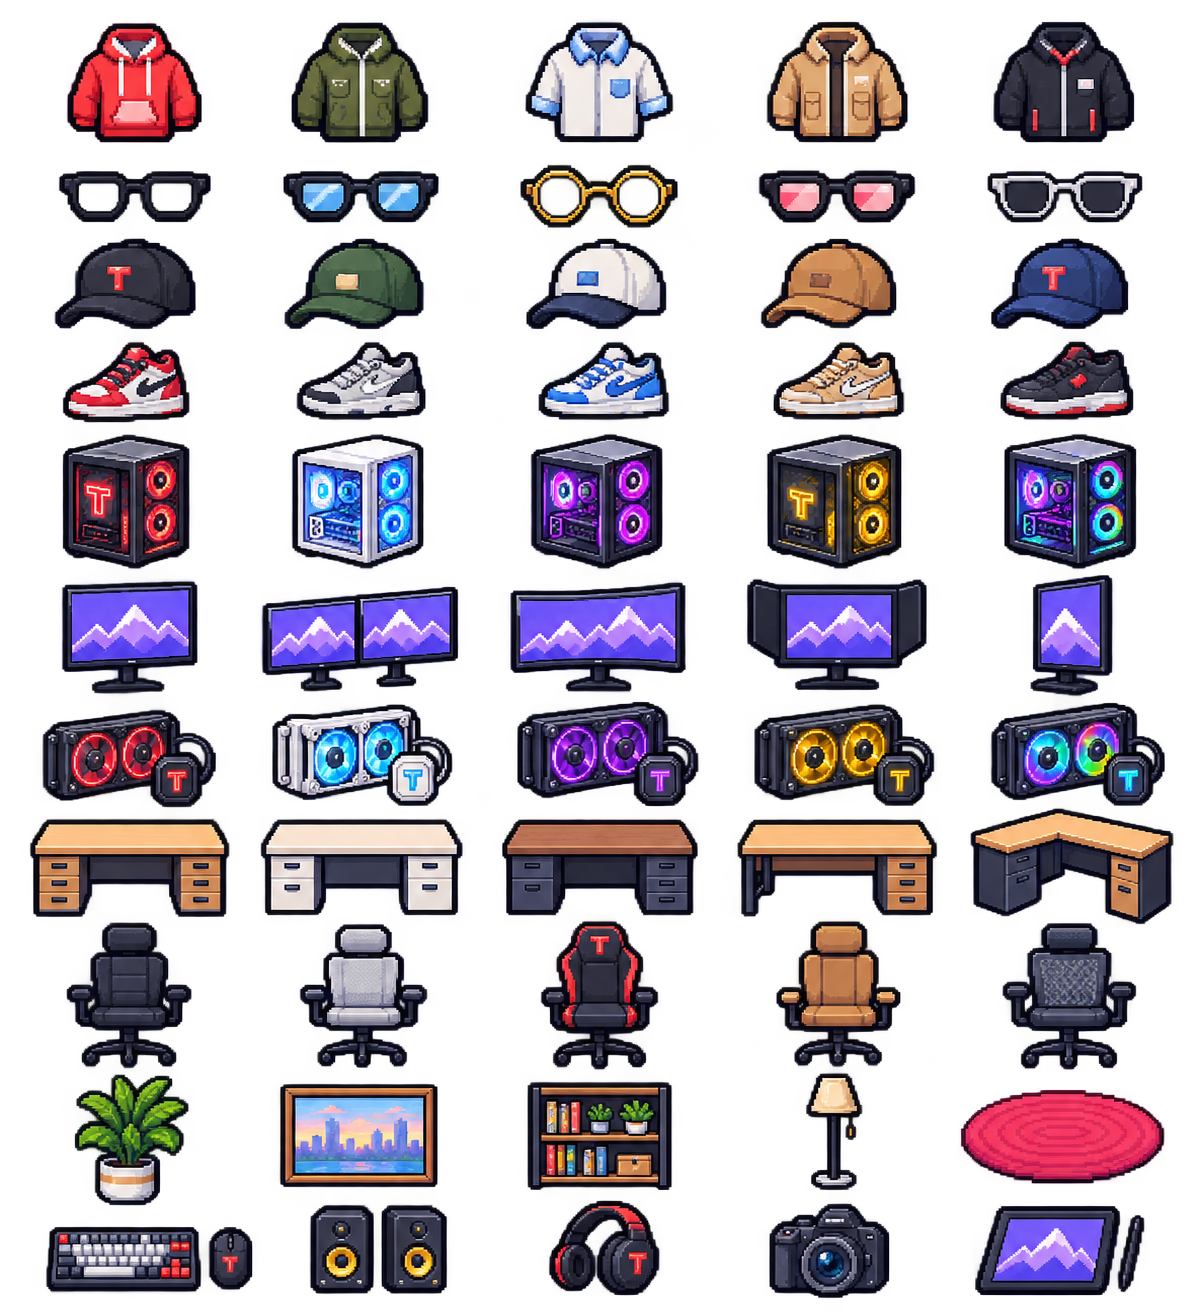
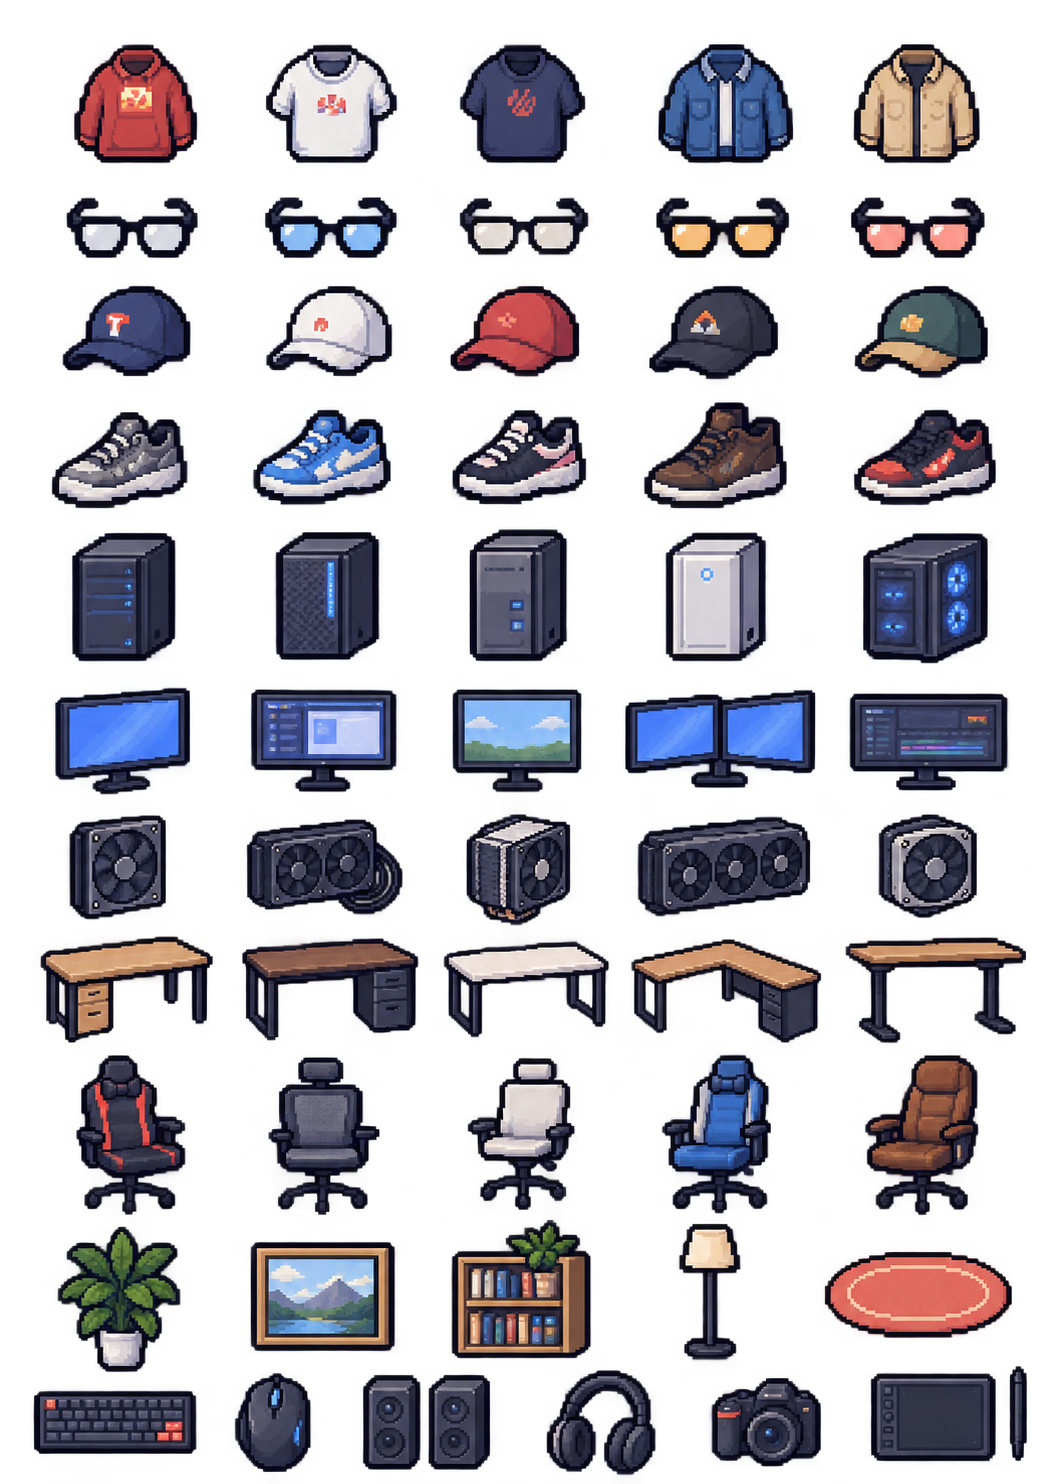
Regenerate muted item art and preserve sprite proportions across UI

diff --git a/src/item-art.js b/src/item-art.js
@@ -1,3 +1,4 @@
+import {drawSprite} from './sprite-fit.js';
 import {rarities} from '../shared/catalog.js';
 const cache=new Map();
 const atlases={};for(const [kind,columns,rows] of [['pet',5,4],['vehicle',4,3],['items',5,11],['office',4,3]]){const image=new Image();image.onload=()=>{if(kind==='pet'||kind==='vehicle')prepareAtlas(atlases[kind]);cache.clear();};image.src='/art/'+kind+'-atlas.png';atlases[kind]={image,columns,rows};}
@@ -12,7 +13,7 @@ export function drawItem(ctx,item,x=0,y=0,size=64,time=0,aura=true){
  const box=(x,y,w,h,col)=>{r(x-2,y-2,w+4,h+4,ink);r(x,y,w,h,col);r(x,y,w,2,light);};
  if(t===3&&aura){const p=Math.floor(time/250)%4;for(let i=0;i<8;i++){const xx=5+(i*17+v*3)%53,yy=4+(i*23)%52;if((i+p)%3!==0){r(xx,yy,3,3,'#efa9fa');r(xx-2,yy+1,7,1,'#c582eb');}}}
  const itemRows=['shirt','glasses','hat','shoes','case','monitor','cooling','desk','chair','decor','accessory'];const row=itemRows.indexOf(item.category);const atlas=atlases[row>=0?'items':item.category];
- if(atlas?.image.complete&&atlas.image.naturalWidth){const {image,columns,rows}=atlas,w=image.naturalWidth/columns,h=image.naturalHeight/rows,index=row>=0?row*5+v:item.variant;if(atlas.frames?.[index])ctx.drawImage(atlas.frames[index],2,1,60,58);else {const cuts=[0,.118,.18,.259,.328,.438,.537,.619,.704,.819,.913,1],sy=row>=0?cuts[row]*image.naturalHeight:Math.floor(index/columns)*h,sh=row>=0?(cuts[row+1]-cuts[row])*image.naturalHeight:h;ctx.drawImage(image,index%columns*w,sy,w,sh,2,1,60,58);}}else switch(item.category){
+ if(atlas?.image.complete&&atlas.image.naturalWidth){const {image,columns,rows}=atlas,w=image.naturalWidth/columns,h=image.naturalHeight/rows,index=row>=0?row*5+v:item.variant;if(atlas.frames?.[index])drawSprite(ctx,atlas.frames[index],0,0,atlas.frames[index].width,atlas.frames[index].height,2,1,60,56);else {const cuts=[0,180,275,400,525,680,805,930,1055,1220,1375,1484].map(y=>y/1484),sy=row>=0?cuts[row]*image.naturalHeight:Math.floor(index/columns)*h,sh=row>=0?(cuts[row+1]-cuts[row])*image.naturalHeight:h;const xs=row===10?[0,320,505,675,835,1060]:[0,232,430,630,830,1060];drawSprite(ctx,image,row>=0?xs[v]*image.naturalWidth/1060:index%columns*w,sy,row>=0?(xs[v+1]-xs[v])*image.naturalWidth/1060:w,sh,2,1,60,56);}}else switch(item.category){
  case 'shirt':{box(19,16,26,33,c);r(10,18,9,17,c);r(45,18,9,17,c);r(12,32,6,4,light);r(47,32,6,4,light);r(26,14,12,7,ink);r(29,17,6,4,light);if(v%2)r(30,22,3,27,metal);else r(21,32,22,3,light);r(36,27,5,6,ink);if(v>2){r(18,12,7,9,c);r(39,12,7,9,c);}break;}
  case 'glasses':{const h=8+v*2;box(9,25,18,h,t>1?c:metal);box(37,25,18,h,t>1?c:metal);r(27,29,10,3,ink);r(3,24,7,4,c);r(54,24,7,4,c);r(12,28,12,h-4,'#273c58');r(40,28,12,h-4,'#273c58');r(13,29,7,2,'#b7d8e1');r(41,29,7,2,'#b7d8e1');break;}
  case 'hat':{box(17,18-v,31,24,c);r(12,40-v,44,6,ink);r(v%2?7:16,39-v,v%2?48:35,4,c);r(29,25,8,9,t>1?'#ed9acc':light);r(23,18-v,3,20,metal);if(v===4){r(27,8,10,8,light);}break;}
@@ -30,20 +31,7 @@ export function drawItem(ctx,item,x=0,y=0,size=64,time=0,aura=true){
  else{const cat=item.kind==='cat';oval(16,29,36,25,ink);oval(18,30,32,22,fur);oval(21,35,24,17,cream);oval(11,14,37,30,ink);oval(13,16,33,26,fur);for(const xx of [14,36]){r(xx,cat?6:9,8,15,ink);r(xx+2,cat?9:12,4,11,fur);r(xx+3,14,2,6,'#d79c9b');}if(n===0||n===11){oval(8,19,9,23,ink);oval(9,20,7,20,fur);oval(43,19,9,23,fur);}oval(19,28,24,14,cream);if([3,10,13].includes(n))oval(14,18,12,15,'#576076');r(20,26,3,5,ink);r(37,26,3,5,ink);r(20,26,1,2,cream);r(37,26,1,2,cream);r(28,33,5,3,ink);r(30,36,1,3,ink);r(26,39,4,1,'#c68383');r(32,39,4,1,'#c68383');oval(17,48+bob,12,8,ink);oval(19,48+bob,9,6,cream);oval(36,48-bob,12,8,ink);oval(37,48-bob,9,6,cream);oval(48,29-bob*2,10,16,fur);if(n===11){r(32,41,5,4,'#d54c76');r(39,41,5,4,'#d54c76');}if([4,8,17].includes(n)){for(let i=0;i<3;i++)r(25+i*4,17,2,6,'#a77748');}if(n===18){for(let i=0;i<7;i++)r(16+(i*11)%28,19+(i*7)%27,2,2,['#60e0ed','#ef91f1'][i%2]);}}
  break;}
  }
- if(t===1){ // Studio trim and hardware: visibly different from the Common base.
-  const trim='#b5d2aa';
-  if(item.category==='shirt'){r(21,23,6,8,trim);r(37,34,6,3,trim);}
-  else if(item.category==='hat'){r(18,34-v,29,3,trim);r(40,22,4,4,light);}
-  else if(item.category==='glasses'){r(10,23,16,2,trim);r(38,23,16,2,trim);}
-  else if(item.category==='shoes'){r(9,39,15,3,trim);r(35,43,15,3,trim);}
-  else if(item.category==='case'){r(40,14,4,3,trim);r(40,20,4,3,trim);r(18,50,28,2,trim);}
-  else if(item.category==='monitor'){r(8,43,48,2,trim);r(52,39,3,3,trim);}
-  else if(item.category==='desk'){r(9,36,45,3,trim);r(43,44,8,2,trim);}
-  else if(item.category==='chair'){r(23,14,18,3,trim);r(18,40,28,2,trim);}
-  else if(item.category==='vehicle'){r(29,7,3,10,trim);r(25,45,14,2,trim);}
-  else if(item.category==='pet'){r(15,37,20,3,trim);r(23,40,3,4,'#dec48a');}
-  else {r(24,43,17,2,trim);r(26,46,13,2,trim);}
- }
+ if(t===1){r(22,59,20,2,'#8aad85');}
  if(t>=2){const col=t===2?'#83c8ef':'#f4a6df';r(8,59,48,2,col);if(t===3)r(10,56,4+(Math.floor(time/200)%5)*8,2,col);}
  ctx.restore();
 }
@@ -61,4 +49,4 @@ export function drawWorkstation(ctx,user,items,x,y,w=96,aura=true,time=0){
  ctx.restore();
 }
 
-export function drawOfficeProp(ctx,index,x,y,width,height=width){const a=atlases.office;if(!a.image.complete||!a.image.naturalWidth)return false;const w=a.image.naturalWidth/a.columns,h=a.image.naturalHeight/a.rows;ctx.imageSmoothingEnabled=false;const xs=[0,.31,.56,.755,1],ys=[0,.35,.69,1],col=index%4,row=Math.floor(index/4);ctx.drawImage(a.image,xs[col]*a.image.naturalWidth,ys[row]*a.image.naturalHeight,(xs[col+1]-xs[col])*a.image.naturalWidth,(ys[row+1]-ys[row])*a.image.naturalHeight,x,y,width,height);return true;}
+export function drawOfficeProp(ctx,index,x,y,width,height=width){const a=atlases.office;if(!a.image.complete||!a.image.naturalWidth)return false;const w=a.image.naturalWidth/a.columns,h=a.image.naturalHeight/a.rows;ctx.imageSmoothingEnabled=false;const xs=[0,.31,.56,.755,1],ys=[0,.35,.69,1],col=index%4,row=Math.floor(index/4);drawSprite(ctx,a.image,xs[col]*a.image.naturalWidth,ys[row]*a.image.naturalHeight,(xs[col+1]-xs[col])*a.image.naturalWidth,(ys[row+1]-ys[row])*a.image.naturalHeight,x,y,width,height);return true;}

diff --git a/src/main.ts b/src/main.ts
@@ -18,7 +18,7 @@ function person(c:CanvasRenderingContext2D,x:number,y:number,color='#eb6c65',wal
 function desk(c:CanvasRenderingContext2D,x:number,y:number,variant=0){rect(c,x+3,y+6,96,55,'#53595c');rect(c,x,y,96,49,'#624d3e');rect(c,x+3,y+3,90,39,'#bd9970');for(let j=0;j<3;j++)rect(c,x+7,y+8+j*12,80,1,'#d3b487');rect(c,x+5,y+45,6,18,'#465059');rect(c,x+85,y+45,6,18,'#465059');rect(c,x+28,y-10,37,27,'#333a49');rect(c,x+31,y-7,31,20,variant%2?'#7a91ab':'#5e88a7');rect(c,x+33,y-5,18,2,'#a9d5dd');rect(c,x+35,y+4,9,6,'#c1b4ce');rect(c,x+44,y+15,7,7,'#4e525a');rect(c,x+35,y+22,27,7,'#393e49');rect(c,x+36,y+23,25,2,'#7e8590');rect(c,x+72,y+20,7,10,'#d7d9d0');rect(c,x+9,y+5,12,15,'#dfdbce');rect(c,x+12,y+7,6,7,'#d26967');rect(c,x+31,y+62,35,28,'#343e4c');rect(c,x+34,y+64,29,18,'#657384');rect(c,x+34,y+82,29,5,'#263443');rect(c,x+45,y+87,6,9,'#283444');rect(c,x+31,y+96,35,3,'#36424e');}
 function car(x:number,y:number,color:string){rect(ctx,x-21,y,44,82,'#303849');rect(ctx,x-24,y+12,5,18,'#202633');rect(ctx,x+21,y+12,5,18,'#202633');rect(ctx,x-18,y+3,36,76,color);rect(ctx,x-15,y+19,30,24,'#26364b');rect(ctx,x-12,y+23,24,3,'#68829b');rect(ctx,x-14,y+55,28,14,'#26364b');rect(ctx,x-17,y+4,8,5,'#eee1b7');rect(ctx,x+9,y+4,8,5,'#eee1b7');rect(ctx,x-17,y+74,7,4,'#e96670');rect(ctx,x+10,y+74,7,4,'#e96670');}
 function draw(){const w=canvas.width,h=canvas.height;ctx.imageSmoothingEnabled=false;camX=Math.max(0,Math.min(1344-w/scale,px-w/scale/2));camY=Math.max(0,Math.min(1248-h/scale,py-h/scale/2));ctx.fillStyle='#c3c5bf';ctx.fillRect(0,0,w,h);ctx.save();ctx.scale(scale,scale);ctx.translate(-Math.round(camX),-Math.round(camY));for(let y=0;y<1248;y+=32)for(let x=0;x<1344;x+=32){rect(ctx,x,y,31,31,(x/32+y/32)%2?'#babdb7':'#c1c3bd');rect(ctx,x+1,y+1,29,1,'#d1d2cb');}
-if(officeScene.complete&&officeScene.naturalWidth){ctx.drawImage(officeScene,0,officeScene.naturalHeight*.092,officeScene.naturalWidth,officeScene.naturalHeight*.783,0,0,1344,950);}else for(const r of rooms){rect(ctx,r.x,r.y,r.w,r.h,'#aeb4af');text(ctx,r.name,r.x+12,r.y+35,10);}
+if(officeScene.complete&&officeScene.naturalWidth){ctx.drawImage(officeScene,0,31,officeScene.naturalWidth,officeScene.naturalWidth*950/1344,0,0,1344,950);}else for(const r of rooms){rect(ctx,r.x,r.y,r.w,r.h,'#aeb4af');text(ctx,r.name,r.x+12,r.y+35,10);}
 // The central workstations remain live, editable game objects.
 rect(ctx,420,160,544,304,'#9fa39d');for(let y=160;y<464;y+=16)for(let x=420;x<964;x+=16){rect(ctx,x,y,15,15,'#b7bab4');}
 text(ctx,'MEDIA & OPERATIONS',490,170,14,'#69746d');for(const d of desks){const owner=worldUser(d.owner);if(!owner||!game.state)desk(ctx,d.x,d.y,d.owner);if(owner&&game.state)drawWorkstation(ctx,owner,game.state.catalog,d.x,d.y,96,game.aura,frame*16);if(desks.indexOf(d)<8&&owner?.id!==game.state?.me.id&&!owner?.online&&owner?.status!=='Onsite'){person(ctx,d.x+48,d.y+72,['#d9886f','#85986c','#7190a4','#b38184'][d.owner%4],false,characterVariant(owner));if(owner&&game.state)drawEquipment(ctx,owner,game.state.catalog,d.x+48,d.y+72,frame,false,game.aura);text(ctx,people[d.owner],d.x+32,d.y+118,9);}}
@@ -43,7 +43,7 @@ let pinchDistance=0,pinchScale=scale;
 canvas.addEventListener('touchstart',e=>{if(e.touches.length===2){e.preventDefault();joy=null;joystick.style.display='none';pinchDistance=Math.hypot(e.touches[0].clientX-e.touches[1].clientX,e.touches[0].clientY-e.touches[1].clientY);pinchScale=scale;}},{passive:false});
 canvas.addEventListener('touchmove',e=>{if(e.touches.length===2&&pinchDistance){e.preventDefault();joy=null;scale=Math.max(.65,Math.min(2.5,pinchScale*Math.hypot(e.touches[0].clientX-e.touches[1].clientX,e.touches[0].clientY-e.touches[1].clientY)/pinchDistance));}},{passive:false});
 canvas.addEventListener('touchend',()=>{pinchDistance=0;joy=null;joystick.style.display='none';});
-document.querySelector<HTMLButtonElement>('#map')!.onclick=()=>{modal('Sơ đồ văn phòng · Tầng 1',`<canvas id="minimap" width="336" height="312" style="width:100%;image-rendering:pixelated;border:1px solid #73849a"></canvas><p class="muted">● Đỏ: vị trí của bạn. Cửa ở giữa cạnh dưới mỗi phòng. Bãi xe nằm phía Nam.</p>`);const c=document.querySelector<HTMLCanvasElement>('#minimap')!.getContext('2d')!;c.fillStyle='#b9bfb7';c.fillRect(0,0,336,312);c.scale(.25,.25);for(const r of rooms){c.fillStyle='#778b9b';c.fillRect(r.x,r.y,r.w,r.h);c.strokeStyle='#e5e3d7';c.lineWidth=8;c.strokeRect(r.x,r.y,r.w,r.h);text(c,r.name,r.x+12,r.y+60,21,'#fff');}for(const d of desks){c.fillStyle='#ae8a60';c.fillRect(d.x,d.y,96,50);}c.fillStyle='#64717f';c.fillRect(0,980,1344,268);text(c,'PARKING',530,1130,32,'#fff');c.fillStyle='#ed607b';c.beginPath();c.arc(px,py,20,0,Math.PI*2);c.fill();};
+document.querySelector<HTMLButtonElement>('#map')!.onclick=()=>{modal('Sơ đồ văn phòng · Tầng 1',`<canvas id="minimap" width="336" height="312" style="width:100%;image-rendering:pixelated;border:1px solid #73849a"></canvas><p class="muted">● Đỏ: vị trí của bạn. Đi qua các lối mở giữa phòng và hành lang. Bãi xe nằm phía Nam.</p>`);const c=document.querySelector<HTMLCanvasElement>('#minimap')!.getContext('2d')!;c.fillStyle='#b9bfb7';c.fillRect(0,0,336,312);c.scale(.25,.25);for(const r of rooms){c.fillStyle='#778b9b';c.fillRect(r.x,r.y,r.w,r.h);c.strokeStyle='#e5e3d7';c.lineWidth=8;c.strokeRect(r.x,r.y,r.w,r.h);text(c,r.name,r.x+12,r.y+60,21,'#fff');}for(const d of desks){c.fillStyle='#ae8a60';c.fillRect(d.x,d.y,96,50);}c.fillStyle='#64717f';c.fillRect(0,980,1344,268);text(c,'PARKING',530,1130,32,'#fff');c.fillStyle='#ed607b';c.beginPath();c.arc(px,py,20,0,Math.PI*2);c.fill();};
 if('serviceWorker' in navigator&&import.meta.env.PROD)navigator.serviceWorker.register('/sw.js').catch(()=>{});
 
 const mapHandler=document.querySelector<HTMLButtonElement>('#map')!.onclick!;

diff --git a/src/visuals.js b/src/visuals.js
@@ -1,10 +1,11 @@
+import {drawSprite} from './sprite-fit.js';
 const roster=new Image();roster.onload=()=>window.dispatchEvent(new Event('game-changed'));roster.src='/art/staff-roster.png';
 export function characterVariant(user){const ids=['hai','tuyen','hung','thinh','dan','huy','xinh','muoi','freelancer','visitor'];const i=ids.indexOf(user?.id);return i>=0?i:Array.from(user?.id||'').reduce((n,c)=>n+c.charCodeAt(0),0)%12;}
 const characterSheet=new Image();characterSheet.onload=()=>window.dispatchEvent(new Event('game-changed'));characterSheet.src='/art/office-character.png';
 // Original pixel artwork drawn on integer grids; reference UI is rebuilt as live components.
 export function pixelCharacter(c,x,y,color='#6e879e',walk=false,variant=0,frame=0,direction=0){
- if(roster.complete&&roster.naturalWidth){const cuts=[0,.31,.555,.79,1],w=roster.naturalWidth/12,sy=cuts[direction]*roster.naturalHeight,sh=(cuts[direction+1]-cuts[direction])*roster.naturalHeight,bob=walk?Math.round(Math.sin(frame*.2)*1.5):0;c.imageSmoothingEnabled=false;c.drawImage(roster,(variant%12)*w,sy,w,sh,Math.round(x-20),Math.round(y-34+bob),40,55);return;}
- if(characterSheet.complete&&characterSheet.naturalWidth){const w=characterSheet.naturalWidth/4,h=characterSheet.naturalHeight/4,col=walk?1+Math.floor(frame/8)%3:0;c.imageSmoothingEnabled=false;c.drawImage(characterSheet,col*w,direction*h,w,h,Math.round(x-21),Math.round(y-34),42,56);return;}
+ if(roster.complete&&roster.naturalWidth){const cuts=[0,.31,.555,.79,1],w=roster.naturalWidth/12,sy=cuts[direction]*roster.naturalHeight,sh=(cuts[direction+1]-cuts[direction])*roster.naturalHeight,bob=walk?Math.round(Math.sin(frame*.2)*1.5):0;c.imageSmoothingEnabled=false;drawSprite(c,roster,(variant%12)*w,sy,w,sh,Math.round(x-20),Math.round(y-34+bob),40,55);return;}
+ if(characterSheet.complete&&characterSheet.naturalWidth){const w=characterSheet.naturalWidth/4,h=characterSheet.naturalHeight/4,col=walk?1+Math.floor(frame/8)%3:0;c.imageSmoothingEnabled=false;drawSprite(c,characterSheet,col*w,direction*h,w,h,Math.round(x-21),Math.round(y-34),42,56);return;}
  const r=(a,b,w,h,col)=>{c.fillStyle=col;c.fillRect(Math.round(x+a),Math.round(y+b),w,h);};
  const ink='#202430',hair=['#292c36','#745447','#252b38','#a78a55','#414354','#ab707b','#343340','#67584c'][variant%8],skin=['#f0c5a2','#edbb9f','#dfb18e'][variant%3],step=walk?Math.round(Math.sin(frame*.16)*2):0;
  r(-12,18,25,4,'#26304735');r(-8,8,7,11+step,ink);r(3,8,7,11-step,ink);r(-9,17+step,9,3,'#e9e5d3');r(2,17-step,9,3,'#e9e5d3');r(-10,-5,22,17,ink);r(-8,-4,18,13,color);r(-2,-3,5,10,'#e3e0d3');r(-1,-2,3,3,'#d96a7a');r(-7,0,4,2,'#94acc0');r(-8,10,18,2,'#28354b');r(-13,-2,5,10,ink);r(-12,-1,3,7,skin);r(11,-2,5,10,ink);r(12,-1,3,7,skin);
@@ -20,8 +21,8 @@ export function workstationScene(ctx,user,items,time,aura,draw){
  r(18,14,100,124,'#202d40');r(22,18,92,115,'#7c9bab');r(27,22,83,105,'#b2ccd2');r(64,18,5,115,'#35465c');r(22,72,92,5,'#35465c');r(28,28,24,4,'#d6e5e0');
  r(145,35,118,7,'#ba9771');r(145,42,118,4,'#263143');for(let i=0;i<7;i++)r(150+i*13,17+i%3*3,9,18-i%3*3,['#ce8e88','#7b98a5','#d1b878'][i%3]);
  r(317,22,111,57,'#252b43');r(320,25,105,51,'#d0b088');r(324,29,97,43,'#26334e');ctx.fillStyle='#ef718f';ctx.font='bold 30px monospace';ctx.fillText('T-RED',328,60);
- draw(ctx,user,items,100,151,260,aura,time);r(389,179,30,45,'#e1ddd1');r(393,215,22,7,'#afb9b2');for(let i=0;i<10;i++)r(378+i%4*12,128+i*4,16,14,['#446b51','#64896a','#88a576'][i%3]);
+ draw(ctx,user,items,120,70,160,aura,time);r(389,179,30,45,'#e1ddd1');r(393,215,22,7,'#afb9b2');for(let i=0;i<10;i++)r(378+i%4*12,128+i*4,16,14,['#446b51','#64896a','#88a576'][i%3]);
 }
 
 const uiIndices={office:0,quests:1,store:2,inventory:3,profile:4,workspace:5,garage:6,pets:7,coin:8,trophy:9,settings:10,gift:11};
-export const icon=name=>name in uiIndices?`<span class="pixel-icon atlas-icon" aria-hidden="true" style="background-position:${uiIndices[name]%4*100/3}% ${Math.floor(uiIndices[name]/4)*50}%"></span>`:vectorIcon(name);
+export const icon=name=>{if(!(name in uiIndices))return vectorIcon(name);const index=uiIndices[name],col=index%4,row=Math.floor(index/4),xs=[0,380,740,1090,1448],ys=[65,421,770,1055];return `<svg class="pixel-icon" aria-hidden="true" viewBox="${xs[col]} ${ys[row]} ${xs[col+1]-xs[col]} ${ys[row+1]-ys[row]}" preserveAspectRatio="xMidYMid meet"><image href="/art/ui-atlas.png" width="1448" height="1086"/></svg>`;};

diff --git a/src/moodboard.css b/src/moodboard.css
@@ -6,3 +6,11 @@
 .brand:after{display:inline-block}.item-card{position:relative}.quest-art>.pixel-icon{width:34px;height:34px;color:#d4c4a3}
 
 .atlas-icon{display:inline-block;background-image:url('/art/ui-atlas.png');background-size:400% 300%;background-repeat:no-repeat;image-rendering:pixelated;filter:none}.profile-grid .atlas-icon{width:52px;height:52px}.quest-art .atlas-icon{width:46px;height:46px}.setup-info img{display:block;margin:auto}.collection-tabs button,.sub-tabs button{white-space:nowrap}.workspace-preview{border:2px solid #77879b;border-radius:9px;overflow:hidden}
+
+/* Reference palette: paper, slate, dusty coral, sage and denim. */
+:root{--coral:#cd6c73;--cream:#f0ebdf;--muted:#a7adb5}.primary,nav button.active,.collection-tabs button.active,.sub-tabs button.active{background:linear-gradient(#d98589,#bd5d67);border-color:#e9b3a6;box-shadow:inset 0 2px #eed3bb55,0 2px #624551}.profile-hero img{object-fit:contain}.workspace-preview canvas{display:block;width:100%;height:auto;aspect-ratio:8/5}.item-preview canvas{height:auto;aspect-ratio:1}.pixel-icon{flex-shrink:0;overflow:hidden}#avatar{object-fit:contain}
+#modal article:has(.eco-grid){background:#eeece3;color:#303a49;border-color:#687281;box-shadow:inset 0 0 0 3px #faf8ee,0 10px 40px #080e2099}#modal article:has(.eco-grid) .modal-title{background:#e8e2d3;border-bottom:3px solid #596270}#modal article:has(.eco-grid) .modal-title h2,#modal article:has(.eco-grid) #close{color:#303a49}.item-card{background:linear-gradient(135deg,#e9e7de,#dcded6);border-color:#b3b5b0;border-bottom-color:var(--rarity);border-radius:5px;box-shadow:inset 1px 1px #fffdf4,0 1px #8d969d;color:#293646}.item-card:hover{background:#f4efdf;border-color:#8e9c9a}.item-card img{filter:drop-shadow(1px 2px #303b4526);object-fit:contain}.item-card b{color:#27313f}.item-card strong{color:#6c5230}.item-card small{color:#566779}#modal article:has(.eco-grid) .muted{color:#606975}#modal article:has(.eco-grid) .eco-toolbar{background:#dedfd9;color:#354152;border-color:#aab1b3}#modal article:has(.eco-grid) .eco-toolbar>b{color:#79572b}.eco-filters input,.eco-filters select{min-height:38px}#modal article:has(.eco-grid) .eco-filters input,#modal article:has(.eco-grid) .eco-filters select{background:#f7f5eb;color:#364250;border-color:#a0aaa9}.collection-tabs,.sub-tabs{scrollbar-width:thin}
+
+#modal article:has(.eco-grid) .collection-tabs button,#modal article:has(.eco-grid) .sub-tabs button,#modal article:has(.eco-grid) .eco-toolbar button{color:#f2ebdd}
+
+#modal article:has(.eco-grid) .collection-banner{color:#f1ecdf}

diff --git a/src/sprite-fit.js b/src/sprite-fit.js
@@ -1,0 +1,5 @@
+// One scale factor for both axes: artwork may be letterboxed, never stretched.
+export function containRect(sw,sh,x,y,w,h,alignY=.5){const scale=Math.min(w/sw,h/sh);return {x:x+(w-sw*scale)/2,y:y+(h-sh*scale)*alignY,w:sw*scale,h:sh*scale};}
+const frames=new WeakMap();
+export function spriteFrame(image,sx,sy,sw,sh){let cache=frames.get(image);if(!cache){cache=new Map();frames.set(image,cache);}const key=[sx,sy,sw,sh].join(',');if(cache.has(key))return cache.get(key);const c=document.createElement('canvas');c.width=Math.max(1,Math.floor(sw));c.height=Math.max(1,Math.floor(sh));const ctx=c.getContext('2d');ctx.drawImage(image,-sx,-sy);const data=ctx.getImageData(0,0,c.width,c.height).data;let l=c.width,t=c.height,r=-1,b=-1;for(let y=0;y<c.height;y++)for(let x=0;x<c.width;x++)if(data[(y*c.width+x)*4+3]>32){l=Math.min(l,x);r=Math.max(r,x);t=Math.min(t,y);b=Math.max(b,y);}const result={image:c,sx:l,sy:t,sw:r-l+1,sh:b-t+1};if(r<0)Object.assign(result,{sx:0,sy:0,sw:c.width,sh:c.height});cache.set(key,result);return result;}
+export function drawSprite(ctx,image,sx,sy,sw,sh,x,y,w,h,alignY=.5){const f=spriteFrame(image,sx,sy,sw,sh),d=containRect(f.sw,f.sh,x,y,w,h,alignY);ctx.imageSmoothingEnabled=false;ctx.drawImage(f.image,f.sx,f.sy,f.sw,f.sh,d.x,d.y,d.w,d.h);if(globalThis.__spriteAudit&&globalThis.__spriteAudit.length<10000)globalThis.__spriteAudit.push({source:[f.sw,f.sh],destination:[d.w,d.h]});}

diff --git a/src/world.js b/src/world.js
@@ -2,6 +2,6 @@ export const rooms=[{id:'reception',name:'LỄ TÂN',x:32,y:32,w:310,h:380},{id:
 export const people=['Thịnh','Tuyền','Hưng','Hải','Dân','Xinh','Huy Trần','Muội'];
 export const desks=[{x:460,y:210,owner:0},{x:620,y:210,owner:1},{x:780,y:210,owner:2},{x:460,y:350,owner:3},{x:620,y:350,owner:4},{x:780,y:350,owner:5},{x:96,y:730,owner:6},{x:240,y:730,owner:7},{x:990,y:780,owner:4},{x:1140,y:780,owner:5}];
 // Collision rectangles follow the clean office scene, with gaps at visible doors.
-const sceneRect=(x,y,w,h)=>({x:x*1344/1448,y:(y-100)*950/850,w:w*1344/1448,h:h*950/850});
+const sceneRect=(x,y,w,h)=>({x:x*1344/1448,y:(y-31)*1344/1448,w:w*1344/1448,h:h*1344/1448});
 export const obstacles=[[375,110,14,310],[490,486,395,14],[475,530,14,350],[875,490,14,120],[875,710,14,170],[490,866,390,16],[940,486,410,14],[935,490,14,160],[935,840,14,40],[940,866,410,16],[1342,490,14,390],[20,866,450,16],[598,598,170,100],[550,752,245,80],[144,247,195,65],[155,417,190,48],[1120,365,180,65],[977,552,245,74]].map(r=>sceneRect(...r));
 export function blocked(x,y){if(x<20||x>1324||y<20||y>1220)return true;if(obstacles.some(r=>x>r.x-6&&x<r.x+r.w+6&&y>r.y-6&&y<r.y+r.h+6))return true;return desks.some(d=>x>d.x-12&&x<d.x+104&&y>d.y-12&&y<d.y+63);}

diff --git a/tests/sprite-fit.test.js b/tests/sprite-fit.test.js
@@ -1,0 +1,2 @@
+import test from 'node:test';import assert from 'node:assert/strict';import {containRect} from '../src/sprite-fit.js';
+test('wide, tall and square art fit without distortion or cropping',()=>{for(const [sw,sh] of [[180,40],[40,180],[90,90],[1448,850]])for(const [w,h] of [[64,64],[192,192],[40,55],[260,120]]){const d=containRect(sw,sh,7,11,w,h);assert(Math.abs(d.w/d.h-sw/sh)<1e-9);assert(d.x>=7-1e-9&&d.y>=11-1e-9);assert(d.x+d.w<=7+w+1e-9&&d.y+d.h<=11+h+1e-9);}});

diff --git a/VISUAL_QA.md b/VISUAL_QA.md
@@ -1,0 +1,19 @@
+# Visual release review
+
+Reference: owner's item collection and palette boards (cream paper, slate navy, dusty coral, sage, denim, warm wood).
+
+## Changes verified before publishing
+- Regenerated 55 base item sprites, mapped to the existing 220 clothing/office catalog entries. Pet and vehicle catalogs retain their artwork.
+- One uniform scale factor preserves the source silhouette in item thumbnails, detail previews, characters, pets, vehicles, and office props. Transparent margins are measured separately from the visible sprite.
+- Office scene uses a crop with the destination aspect ratio; collision coordinates use the same scale.
+- UI icons use calibrated SVG view boxes with `meet`, avoiding background-image stretching and adjacent-cell fragments.
+- Workspace preview fits the supported layout range; canvas CSS keeps its intrinsic ratio.
+- Corrected dark tab text against the new cream catalog, clipped desk legs, and neighboring icon fragments found during screenshot review.
+
+## Evidence
+`npm test`, `npm run build`, `npm run test:browser`.
+Browser suite checks movement, transactions, persistence, equipment, workspace, five responsive viewports and 288 distinct catalog renders. A mathematical fit test covers wide, tall and square source art. Runtime audit compares source and destination ratios.
+
+36 screenshots cover all 13 item categories plus inventory, profile, quests, workspace and map at phone and desktop sizes. World screenshots are also inspected. Captures are reproducible under ignored `work/screenshots/` using the browser suite.
+
+This is generated reference-based artwork; visual identity is close to the supplied boards, not a pixel-identical extraction. Existing rarity variants share base designs and are distinguished by rarity markers.
